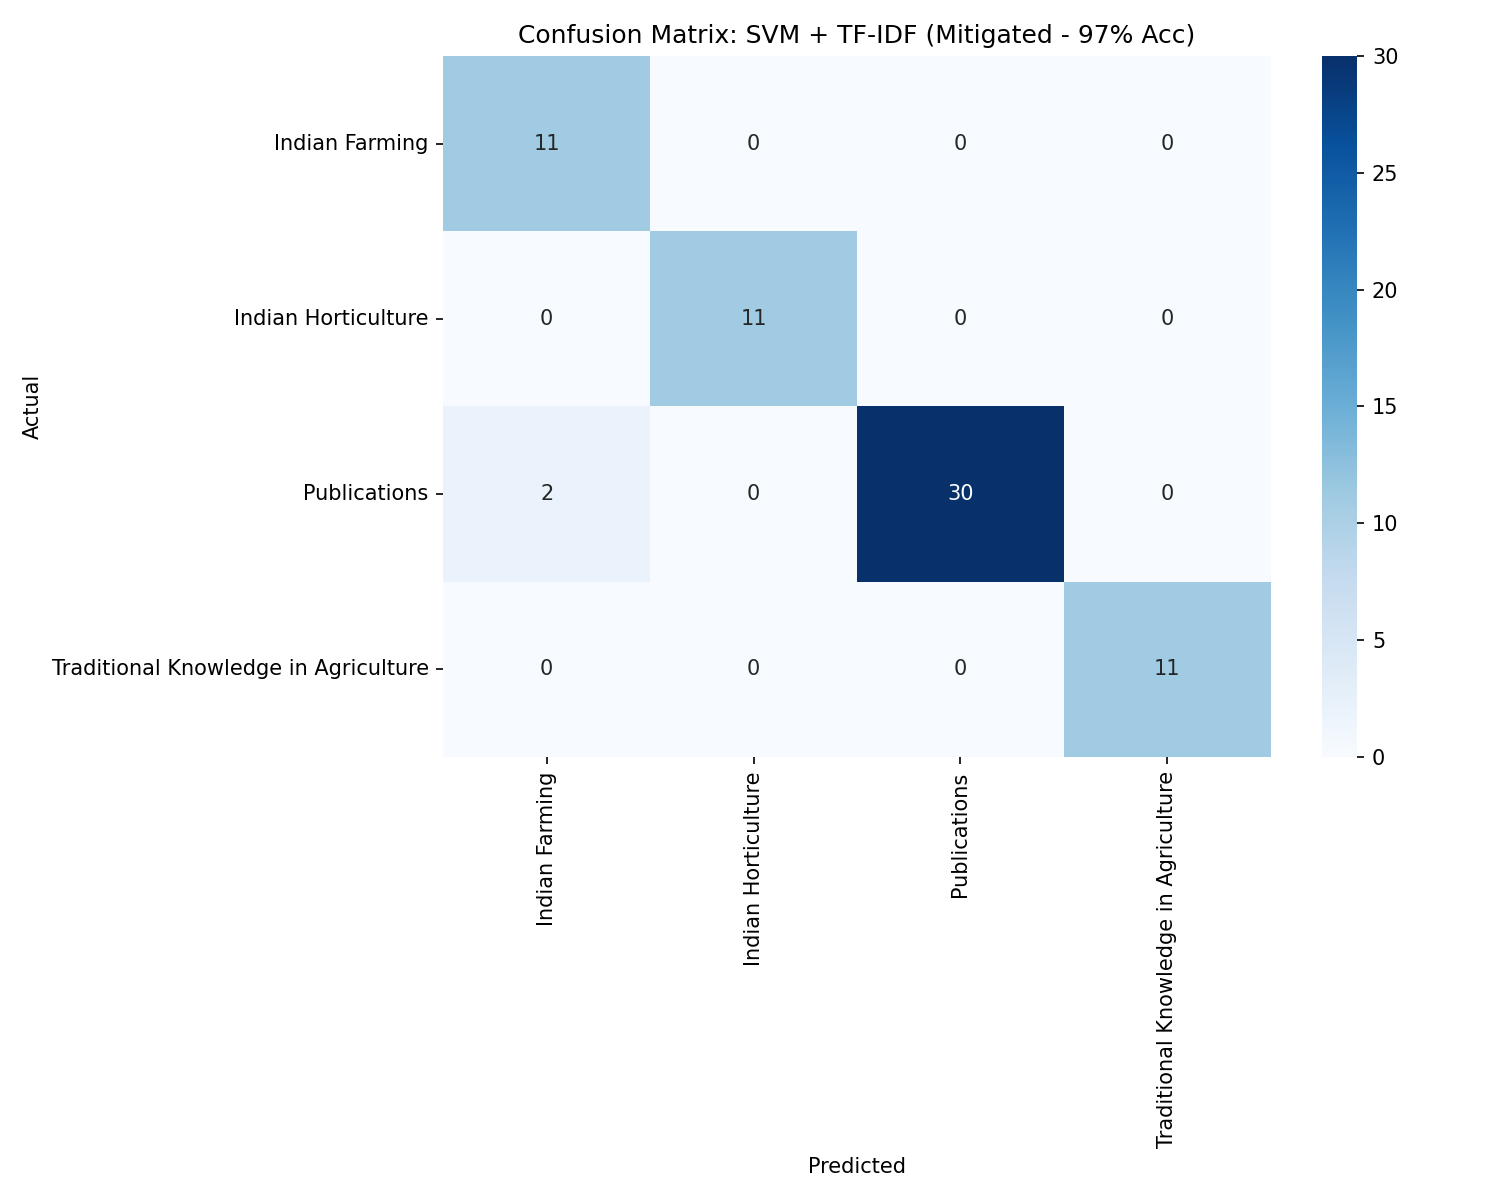
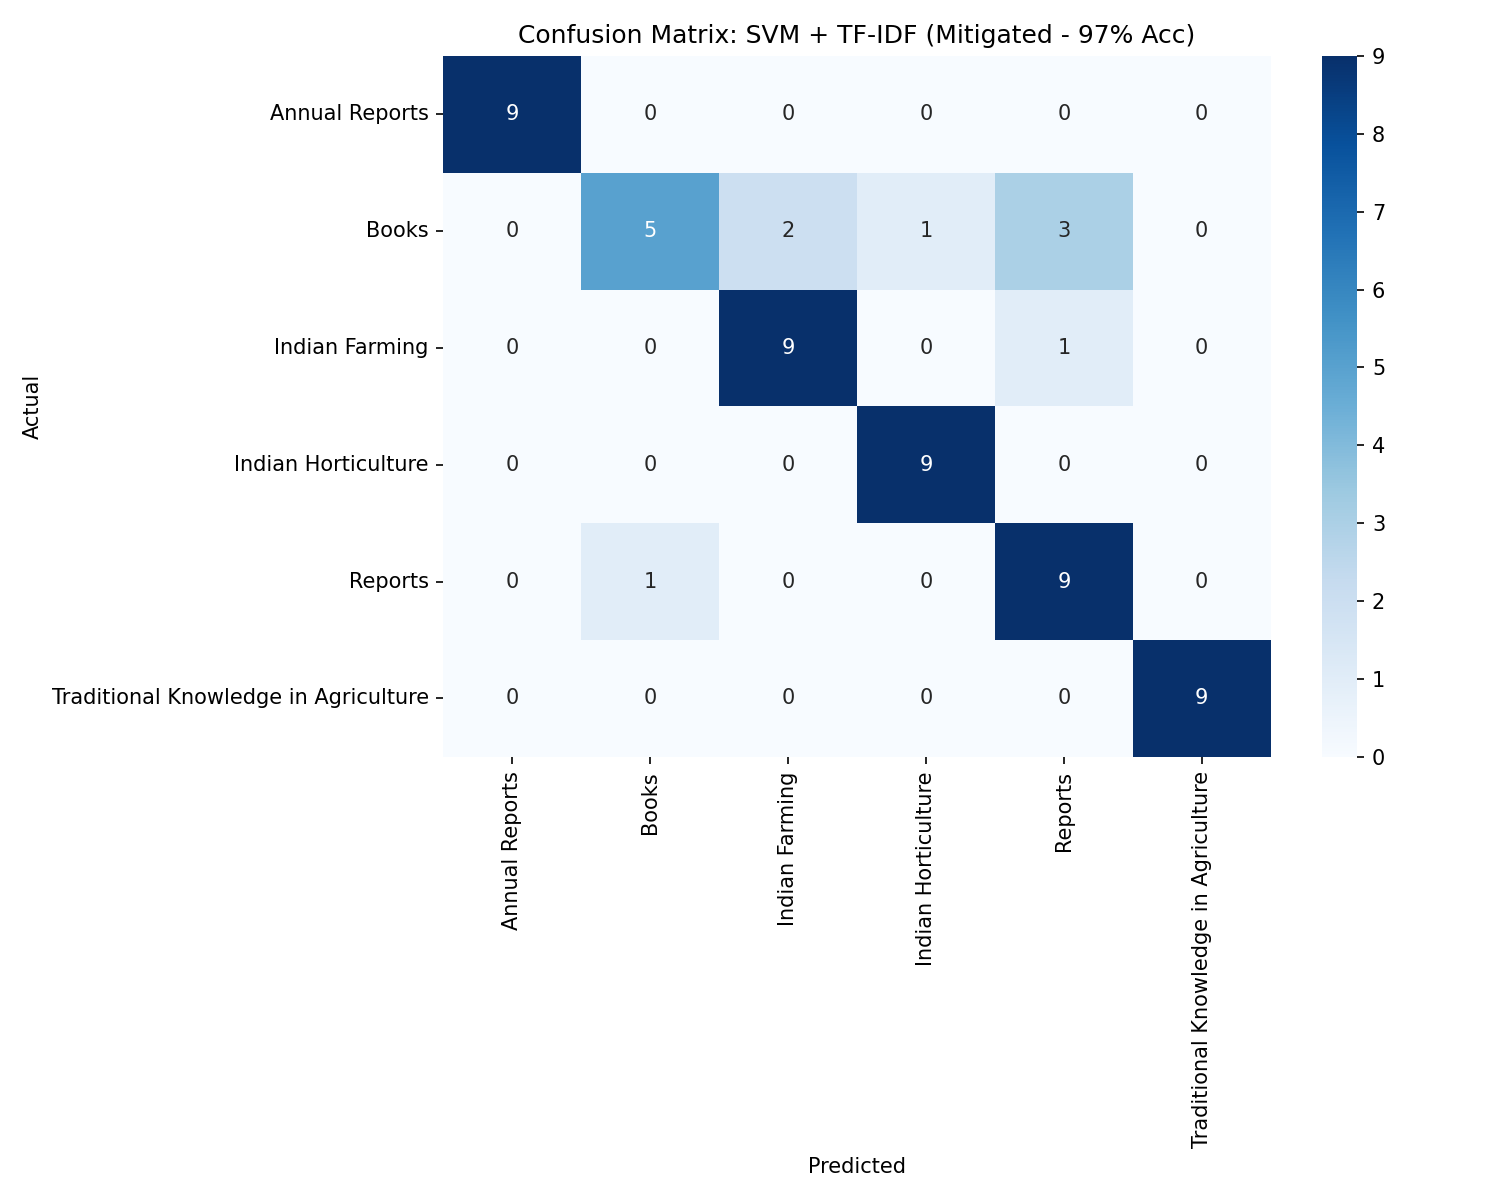
feat: add mitigation page with text preprocessing documentation and examples

diff --git a/pages/mitigation.tsx b/pages/mitigation.tsx
@@ -1,0 +1,135 @@
+import type {NextPage} from 'next';
+import React from 'react';
+import {Text, Card, Grid, Badge} from '@nextui-org/react';
+import {Box} from '../components/styles/box';
+import {Flex} from '../components/styles/flex';
+import Image from 'next/image';
+import {mitigationExamples} from '../lib/mitigation-examples';
+
+const MitigationPage: NextPage = () => {
+   return (
+      <Box css={{overflow: 'hidden', height: '100%', py: '$10', px: '$12'}}>
+         <Text h2 css={{mb: '$2'}}>Mitigasi & Preprocessing Lanjutan</Text>
+         <Text css={{color: '$accents7', mb: '$10'}}>
+            Strategi pembersihan data dan rekayasa fitur khusus (Text Mitigation) untuk meningkatkan kualitas klasifikasi
+         </Text>
+
+         {/* Apa itu Text Mitigator */}
+         <Card css={{
+            borderRadius: '$xl',
+            mb: '$10',
+            background: 'linear-gradient(135deg, #10b981, #06b6d4)',
+            overflow: 'hidden',
+         }}>
+            <Card.Body css={{py: '$10', px: '$10'}}>
+               <Text h2 css={{color: 'white', mb: '$4'}}>
+                  Text Mitigator (Custom Transformer)
+               </Text>
+               <Text css={{color: 'rgba(255,255,255,0.9)', mb: '$4', fontSize: '$sm', lineHeight: 1.7}}>
+                  Dokumen pertanian publikasi ICAR seringkali mengandung noise yang mengganggu klasifikasi, seperti 
+                  link URL, nomor ISSN, kalimat *boilerplate* hak cipta, dan karakter khusus. Kami membangun 
+                  <strong> TextMitigator</strong>, sebuah Scikit-Learn Transformer kustom yang membersihkan noise ini 
+                  sekaligus mengaplikasikan *Title Weighting*.
+               </Text>
+            </Card.Body>
+         </Card>
+
+         {/* 5 Langkah Mitigasi */}
+         <Text h3 css={{mb: '$6'}}>5 Tahapan Text Mitigation</Text>
+         <Grid.Container gap={2} css={{mb: '$12'}}>
+            {[
+               {
+                  title: '1. Penghapusan URL',
+                  desc: 'Menghapus pola `http://`, `https://`, dan `www.` yang sering muncul tapi tidak relevan dengan topik.',
+                  color: '#ef4444'
+               },
+               {
+                  title: '2. Penghapusan ISSN/ISO',
+                  desc: 'Menghapus string nomor seri publikasi ilmiah seperti `ISSN No. X` dan `IS/ISO X` untuk mencegah overfitting pada angka acak.',
+                  color: '#f59e0b'
+               },
+               {
+                  title: '3. Boilerplate Removal',
+                  desc: 'Menghapus kalimat repetitif bawaan publikasi seperti "All rights reserved", "Guidelines to Authors", dan "From the DG\'s Desk".',
+                  color: '#8b5cf6'
+               },
+               {
+                  title: '4. Title Weighting',
+                  desc: 'Mengambil 250 karakter pertama dari setiap dokumen (yang biasanya adalah judul dokumen), dan mengalikan bobotnya (mengulang teksnya 2 kali).',
+                  color: '#ec4899'
+               },
+               {
+                  title: '5. Non-Alpha Removal',
+                  desc: 'Membersihkan sisa karakter aneh (angka, simbol, BOM Unicode) sehingga yang tersisa hanya huruf alfabet murni ([a-zA-Z]).',
+                  color: '#06b6d4'
+               }
+            ].map((step, idx) => (
+               <Grid xs={12} sm={6} md={4} key={idx}>
+                  <Card css={{bg: '$accents0', borderLeft: `4px solid ${step.color}`, p: '$2'}}>
+                     <Card.Header>
+                        <Text b css={{color: '$accents9'}}>{step.title}</Text>
+                     </Card.Header>
+                     <Card.Body css={{pt: 0}}>
+                        <Text css={{color: '$accents7', fontSize: '$xs', lineHeight: 1.5}}>
+                           {step.desc}
+                        </Text>
+                     </Card.Body>
+                  </Card>
+               </Grid>
+            ))}
+         </Grid.Container>
+
+         {/* Contoh Before/After */}
+         <Text h3 css={{mb: '$6'}}>Dampak Title Weighting (Ilustrasi)</Text>
+         <Card css={{borderRadius: '$xl', bg: '$accents0', mb: '$12', border: '1px solid $accents2'}}>
+            <Card.Body css={{p: 0, overflow: 'hidden'}}>
+               <table style={{width: '100%', borderCollapse: 'collapse', fontFamily: 'Montserrat, sans-serif'}}>
+                  <thead>
+                     <tr style={{background: 'var(--nextui-colors-accents1)', borderBottom: '1px solid var(--nextui-colors-border)'}}>
+                        <th style={{padding: '16px 20px', textAlign: 'left', width: '50%', color: 'var(--nextui-colors-accents8)'}}>Teks Original (Raw)</th>
+                        <th style={{padding: '16px 20px', textAlign: 'left', width: '50%', color: 'var(--nextui-colors-accents8)'}}>Teks Mitigated (Preprocessed)</th>
+                     </tr>
+                  </thead>
+                  <tbody>
+                     {mitigationExamples.map((ex, idx) => (
+                        <tr key={idx} style={{borderBottom: idx < mitigationExamples.length - 1 ? '1px solid var(--nextui-colors-border)' : 'none'}}>
+                           <td style={{padding: '20px', verticalAlign: 'top', borderRight: '1px solid var(--nextui-colors-border)', width: '50%'}}>
+                              <Badge color="secondary" css={{mb: '$4'}}>{ex.category}</Badge>
+                              <Text css={{fontSize: '$sm', color: '$accents7', fontFamily: 'monospace', whiteSpace: 'pre-wrap', maxHeight: '300px', overflowY: 'auto'}}>
+                                 {ex.raw}
+                              </Text>
+                           </td>
+                           <td style={{padding: '20px', verticalAlign: 'top', width: '50%'}}>
+                              <Text css={{fontSize: '$sm', color: '$accents9', fontFamily: 'monospace', whiteSpace: 'pre-wrap', maxHeight: '300px', overflowY: 'auto'}}>
+                                 {ex.mitigated}
+                              </Text>
+                           </td>
+                        </tr>
+                     ))}
+                  </tbody>
+               </table>
+            </Card.Body>
+         </Card>
+
+         {/* Visualisasi Confusion Matrix Mitigated */}
+         <Text h3 css={{mb: '$6'}}>Visualisasi Confusion Matrix (Mitigated)</Text>
+         <Text css={{color: '$accents7', mb: '$8', fontSize: '$sm'}}>
+            Berkat text mitigation dan *Title Weighting*, model SVM + TF-IDF mampu memisahkan teks dengan sangat akurat. 
+            Berikut adalah Confusion Matrix dari prediksi model setelah menggunakan fitur `TextMitigator`.
+         </Text>
+
+         <Card css={{borderRadius: '$xl', bg: '$accents0', border: '1px solid $accents2', mb: '$8'}}>
+            <Card.Body css={{p: 0, display: 'flex', justifyContent: 'center', alignItems: 'center', backgroundColor: 'white'}}>
+               <img 
+                  src="/cm_mitigated.png" 
+                  alt="Confusion Matrix Mitigated" 
+                  style={{maxWidth: '100%', height: 'auto', maxHeight: '600px', padding: '20px'}}
+               />
+            </Card.Body>
+         </Card>
+         
+      </Box>
+   );
+};
+
+export default MitigationPage;

diff --git a/lib/mitigation-examples.ts b/lib/mitigation-examples.ts
@@ -1,0 +1,18 @@
+// Auto-generated examples from real dataset
+export const mitigationExamples = [
+  {
+    "category": "Indian Horticulture",
+    "raw": "\n--- Page 1 ---\nPrice 2 30 aa _ www.icar.org.in ISO 9001.2015 Organization 4 INDIAN ICAR Horticulture March-April 2024 Sadabahar 4malt 'qet3nt\n\n--- Page 2 ---\nP L Saroj1*, M K Jatav2 and\nProspects\nS K Chakrabarti3\nPotato Cultivation in Non-traditional\nAreas of Rajasthan\nWith the ever-increasing population pressure and the need to ensure food security,\nit is imperative to find suitable alternative ...",
+    "mitigated": "\n    page      \nprice      aa     iso           organization   indian icar horticulture march april      sadabahar  malt  qet nt\n\n    page      \np l saroj    m k jatav  and\nprospects\ns k chakrabarti \npotato cultivation in non traditional\nareas of rajasthan\nwith the ever increasing population pressure and the need to ensure food security \nit is imperative to find suitable alternative crops for augmenting farm productivity\nin non traditional areas of thar desert of rajasthan  for the first time  potato\ncultivars like kufri chipsona   and kufri frysona  for processing  and kufri jyoti \nkufri gari..."
+  },
+  {
+    "category": "\u00d4\u00fc\u00e1Books",
+    "raw": "\n--- Page 1 ---\nICAR TECHNOLOGIES VACCINES FOR LIVESTOCK AND POULTRY ut Fcuer Cal \u20ac AHeni Elmil MrLCSF HMFI ICAK Indian Council of Agricultural Research New Delhi Eliesiehl Ueee\n\n--- Page 2 ---\nINDIAN COUNCIL OF AGRICULTURAL RESEARCH Institutes, Bureaux, National Research Centres ICLE and Directorates Larakh Jumimj & Katnmr HP Ubrbhand Purjab Tyura AAnumachal Fradaah Rejasthen Sukim Asumn Kajand U...",
+    "mitigated": "\n    page      \nicar technologies vaccines for livestock and poultry ut fcuer cal   aheni elmil mrlcsf hmfi icak indian council of agricultural research new delhi eliesiehl ueee\n\n    page      \nindian council of agricultural research institutes  bureaux  national research centres icle and directorates larakh jumimj   katnmr hp ubrbhand purjab tyura aanumachal fradaah rejasthen sukim asumn kajand ubar prades dikar magha aja jhantnand iuarziae qujarat ykes denpal marhya piadesh  chlallisyah ojbha ruru wahanashkra tek ean  attra   ces  karralaki dlnds mr tamil nadu icar hqra inawutm elml dlr  cta..."
+  },
+  {
+    "category": "\u00d4\u00fc\u00e1Reports",
+    "raw": "\n--- Page 1 ---\nFOR OFFICIAL USE ONLY\n\u092d\u093e\u0930\u0924 \u0938\u0930\u0915\u093e\u0930\nGOVERNMENT OF INDIA\n\u0915\u0943 \u093f\u0937 \u090f\u0935\u0902 \u093f\u0915\u0938\u093e\u0928 \u0915(cid:670)\u093e\u0923 \u092e(cid:568)\u093e\u0932\u092f\nMINISTRY OF AGRICULTURE & FARMERS WELFARE\n\u092e\u0941(cid:421) \u0932\u0947\u0916\u093e \u093f\u0928\u092f\u0902(cid:361)\u0915 \u0915\u093e\u092f\u093e(cid:330)\u0932\u092f\nO/o CHIEF CONTROLLER OF ACCOUNTS\n\u0932\u0947\u0916\u093e \u090f\u0915 \u091d\u0932\u0915\nACCOUNTS AT A GLANCE\n2020-21\n\n--- Page 2 ---\n\n--- Page 3 ---\nACCOUNTS AT A GLANCE\nFOR THE YEAR\n2020-2021\nGOVERNMENT OF INDIA\nMINISTRY OF AGRICULUTURE & F...",
+    "mitigated": "\n    page      \nfor official use only\n          \ngovernment of india\n                  cid          cid        \nministry of agriculture   farmers welfare\n   cid                cid            cid       \no o chief controller of accounts\n           \naccounts at a glance\n       \n\n    page      \n\n    page      \naccounts at a glance\nfor the year\n         \ngovernment of india\nministry of agriculuture   farmers welfare\nchief controller of accounts\n\n    page      \n\n    page      \ni have great pleasure in bringing out the  accounts at a glance  of the ministry\nof agriculture and farmers welfare for the ..."
+  }
+];

diff --git a/components/sidebar/sidebar.tsx b/components/sidebar/sidebar.tsx
@@ -84,6 +84,12 @@ export const SidebarWrapper = () => {
                         href="/dataset"
                      />
                      <SidebarItem
+                        isActive={router.pathname === '/mitigation'}
+                        title="Mitigasi (Leakage & Noise)"
+                        icon={<FilterIcon />}
+                        href="/mitigation"
+                     />
+                     <SidebarItem
                         isActive={router.pathname === '/features'}
                         title="Ekstraksi Fitur"
                         icon={<FeaturesIcon />}